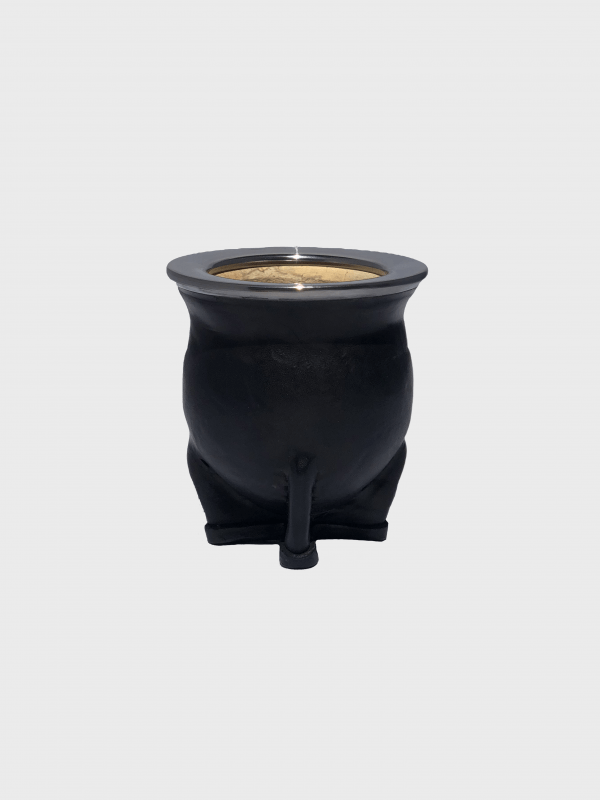
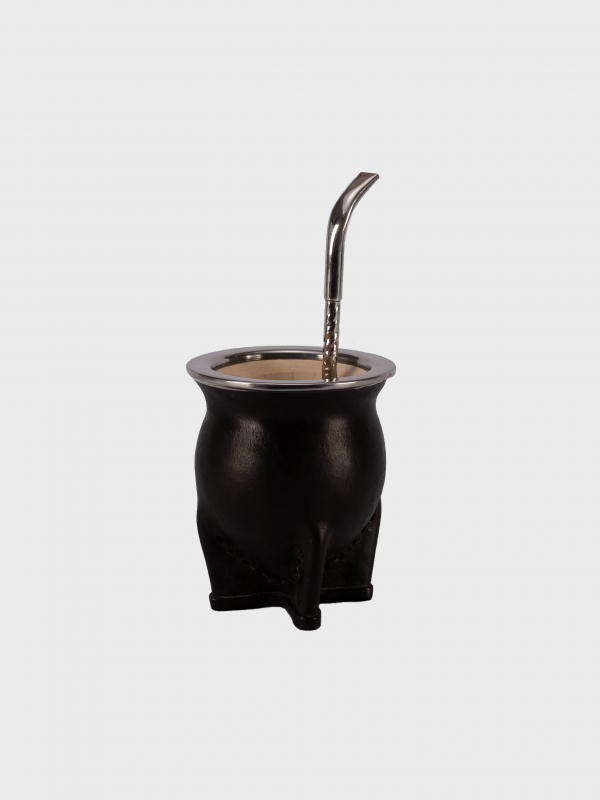
Cambios 21/8 13:34
Cambios en las imagenes de mates y tazas por imagenes con una estetica similar. Cambio en la sombra de las imagenes

Changed region(s): [[0.27, 0.2188, 0.72, 0.8125]]

diff --git a/views/matesytazas.html b/views/matesytazas.html
@@ -80,13 +80,13 @@
 		<div class="flex__container">
 
 		<div class="flex__container--product">
-			<img class="flex__container--img" src="../media/matecamion.jpg" alt="Mate_Camion">
+			<img class="flex__container--img" src="../media/matecamion.png" alt="Mate_Camion">
 			<br>
 			<span>Mate Camión</span>
 		</div>
 
 		<div class="flex__container--product">
-			<img class="flex__container--img" src="../media/matetorpedo.jpg" alt="Mate_Torpedo">
+			<img class="flex__container--img" src="../media/matetorpedo.png" alt="Mate_Torpedo">
 			<br>
 			<span>Mate Torpedo</span>
 		</div>
@@ -98,7 +98,7 @@
 		</div>
 		
 		<div class="flex__container--product">
-		<a href="#mate_valentino" id="mate_valentino"><img class="flex__container--img" src="../media/matedestacado.jpg" alt="Mate_Valentino"></a>
+		<a href="#mate_valentino" id="mate_valentino"><img class="flex__container--img" src="../media/matedestacado.png" alt="Mate_Valentino"></a>
 			<br>
 			<span>Mate Valentino</span>
 		</div>

diff --git a/scss/style.css b/scss/style.css
@@ -235,8 +235,8 @@
 }
 
 .flex__container--img {
-  -webkit-box-shadow: 0 26.4px 5.6px -47px rgba(0, 0, 0, 0.359), 0 39px 16.2px -47px rgba(0, 0, 0, 0.43), 0 60px 66px -47px rgba(0, 0, 0, 0.59);
-          box-shadow: 0 26.4px 5.6px -47px rgba(0, 0, 0, 0.359), 0 39px 16.2px -47px rgba(0, 0, 0, 0.43), 0 60px 66px -47px rgba(0, 0, 0, 0.59);
+  -webkit-box-shadow: 0 26.4px 5.6px -47px rgba(0, 0, 0, 0.359), 0 39px 16.2px -47px rgba(0, 0, 0, 0.43), 0 35px 46px -47px rgba(0, 0, 0, 0.59);
+          box-shadow: 0 26.4px 5.6px -47px rgba(0, 0, 0, 0.359), 0 39px 16.2px -47px rgba(0, 0, 0, 0.43), 0 35px 46px -47px rgba(0, 0, 0, 0.59);
 }
 
 .flex__container--product img {

diff --git a/index.html b/index.html
@@ -212,7 +212,7 @@
 
 <div class="about__destacados">
 	<a href="./views/matesytazas.html#mates1">
-		<img src="./media/matedestacado.jpg" alt="Mate_Destacado" width="15%">
+		<img src="./media/matedestacado.png" alt="Mate_Destacado" width="15%">
 	</a>
 	<a href="./views/matesytazas.html#mates1">
 		<span class="btn btn-primary">Mate Valentino</span>

diff --git a/scss/_matesytazas.scss b/scss/_matesytazas.scss
@@ -22,7 +22,7 @@ $color-secondary: #FFEFAF;
         box-shadow:
         0 26.4px 5.6px -47px rgba(0, 0, 0, 0.359),
         0 39px 16.2px -47px rgba(0, 0, 0, 0.43),
-        0 60px 66px -47px rgba(0, 0, 0, 0.59); 
+        0 35px 46px -47px rgba(0, 0, 0, 0.59); 
     }
 }
 
